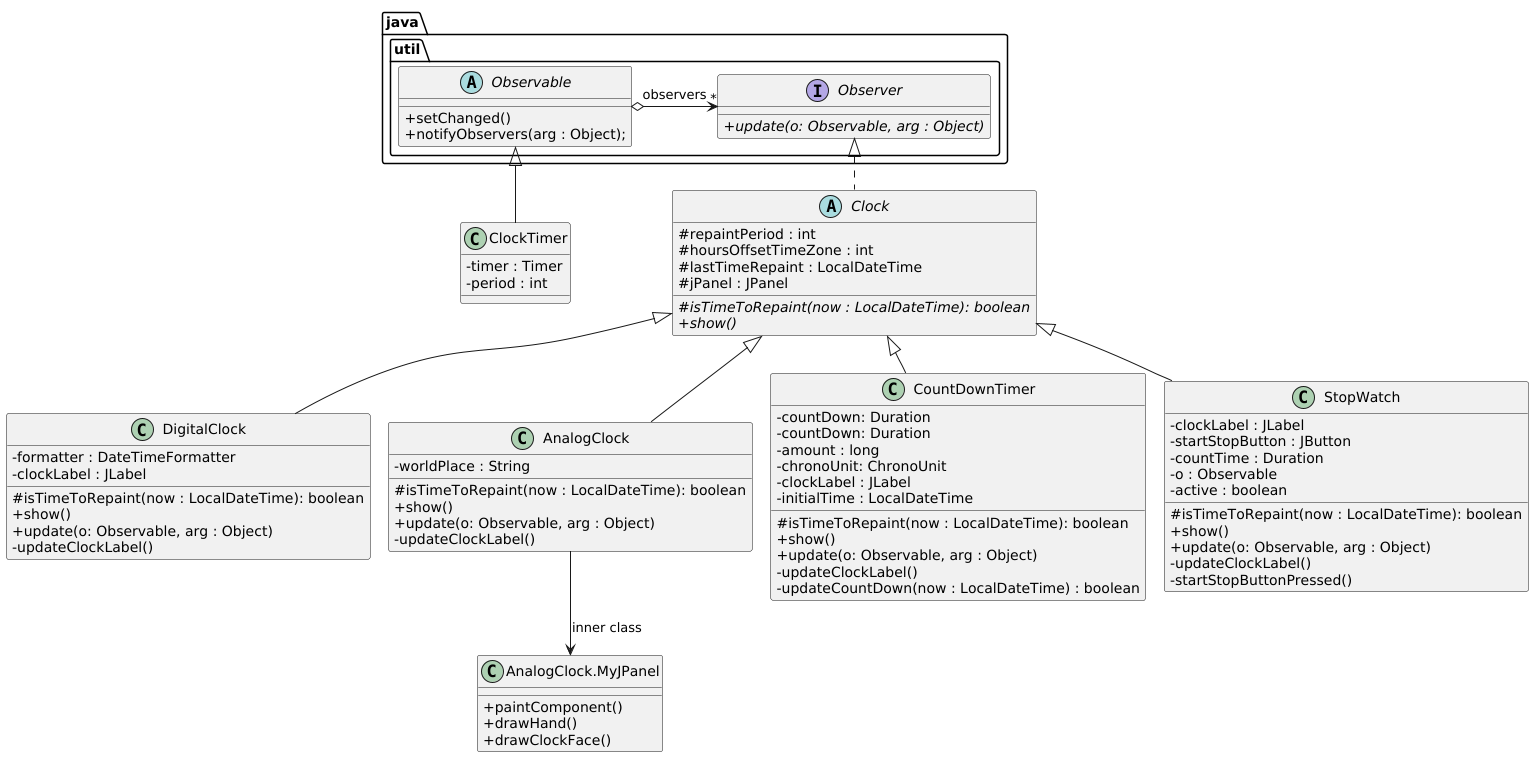
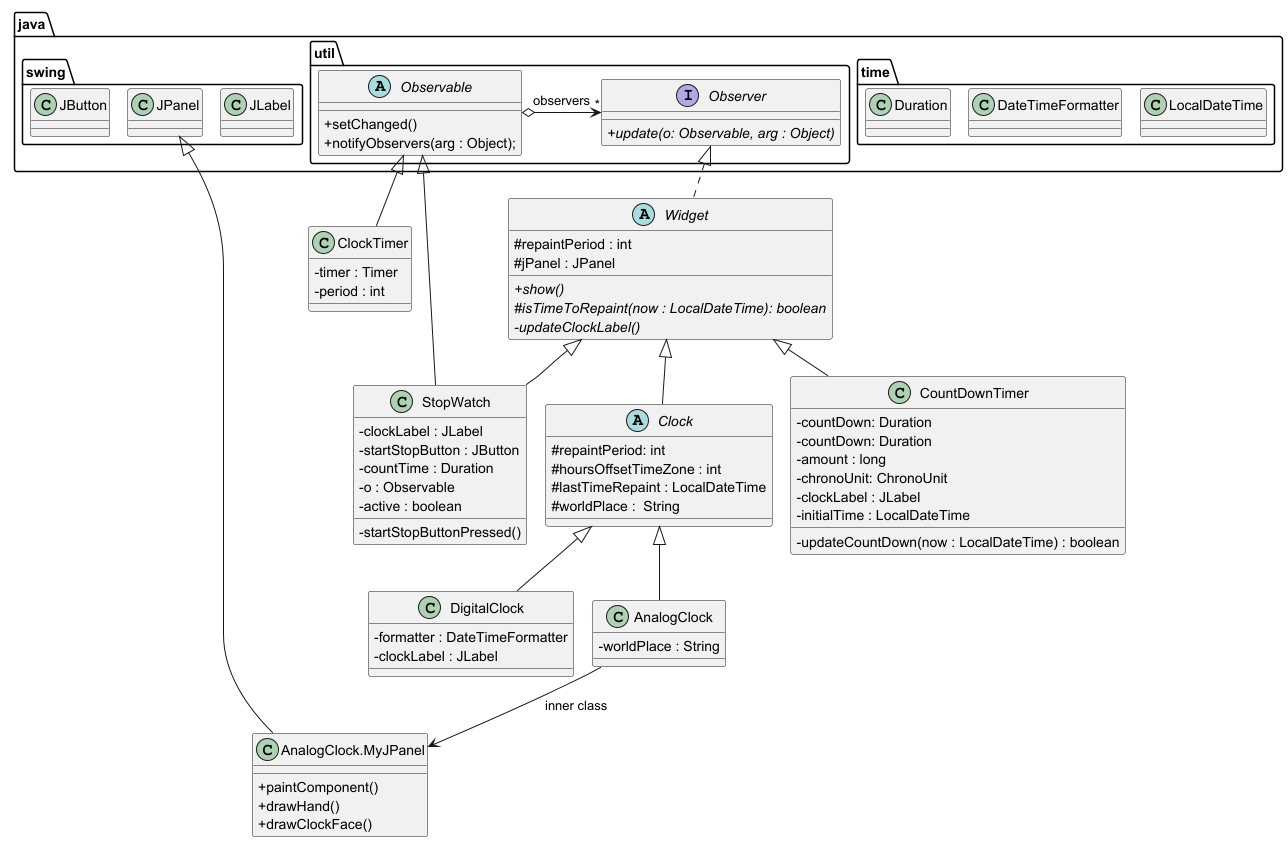
lol

Changed region(s): [[0.0, 0.0, 1.0, 1.0], [0.6211, 0.2734, 0.6522, 0.3038], [0.1863, 0.5165, 0.2174, 0.5469]]

diff --git a/Nueva carpeta/css/forum.css b/Nueva carpeta/css/forum.css
@@ -1,0 +1,44 @@
+body {
+    background-color: white;
+    font-family: 'Courier New', Courier, monospace;
+}
+
+header {
+    background-color: darkgray;
+    text-align: center;
+    position: sticky;
+    top: 0px;
+    z-index: 1;
+}
+
+section {
+    background-color: lightgray;
+    text-align: left;
+}
+
+img {
+    opacity: 0.75;
+    z-index: -1;
+    animation-name: logo;
+    animation-iteration-count: 2;
+    animation-duration: 0.75s;
+}
+
+@keyframes logo {
+    100%{transform: rotate(360deg);}
+}
+
+#layout {
+    display: flex;
+    flex-direction: column;
+}
+
+@media screen and (min-width: 1400px) {
+    #layout {
+        flex-direction: row;
+    }
+
+    section {
+        max-width: 40%;
+    }
+}

diff --git a/Nueva carpeta/js/funcions.js b/Nueva carpeta/js/funcions.js
@@ -1,0 +1,5 @@
+async function ampliaMissatge(id) {
+    var answer = await fetch("/controladors/c_missatge.php?IDElement="+id)
+    var answerTxt = await answer.text();
+    document.getElementById(id).innerHTML = answerTxt;
+}

diff --git a/Nueva carpeta/forum.php b/Nueva carpeta/forum.php
@@ -1,0 +1,28 @@
+<!DOCTYPE html>
+<html>
+    <head>
+    <meta charset="utf-8"/>
+    <title>Desenvolupament Web</title>
+    <link rel="stylesheet" type="text/css" href="./css/forum.css">
+    <script src="./js/funcions.js"></script>
+    </head>
+    <body>
+        <header>
+            <img src="./img/css.png" id="css"/>
+            <img src="./img/html.png" id="html"/>
+            <img src="./img/js.png" id="js"/>
+            <h1 class="titolGran">Fòrum de <em>Desenvolupament Web</em></h1>
+        </header><br/>
+        <div id="layout">
+            <?php include_once __DIR__ . "/controladors/c_missatgesLlistat.php"; ?>
+            <section>
+                <h2 class="titolPetit">Escriu la teva resposta:</h2> <hr/>
+                    <form method="post" action="./resposta.php">
+                        <input type="text" id="inputNom" name="nom" size="15" required /><br/>
+                        <textarea id="inputResposta" name="resposta" rows="10" cols="200" required></textarea><br/>
+                    <input type="submit" id="inputEnviar" value="ENVIAR" />
+                </form>
+            </section>
+        </div>
+    </body>
+</html>

diff --git a/clocks_java_students-main/observer_clock/DigitalClock.java b/clocks_java_students-main/observer_clock/DigitalClock.java
@@ -16,6 +16,7 @@ public class DigitalClock extends Clock {
   private JLabel clockLabel;
 
   public DigitalClock(int hoursOffsetTimeZoneOffset, String worldPlace) {
+    this.worldPlace = worldPlace;
     this.hoursOffsetTimeZone = hoursOffsetTimeZoneOffset;
     this.repaintPeriod = 100;
 
@@ -29,7 +30,7 @@ public class DigitalClock extends Clock {
     panel.add(clockLabel);
     JLabel placeLabel = new JLabel();
     placeLabel.setFont(new Font(Font.DIALOG, Font.PLAIN, 16));
-    placeLabel.setText(worldPlace);
+    placeLabel.setText(this.worldPlace);
     placeLabel.setAlignmentX(Component.CENTER_ALIGNMENT);
     panel.add(placeLabel);
 

diff --git a/clocks_java_students-main/observer_clock/ClockTimer.java b/clocks_java_students-main/observer_clock/ClockTimer.java
@@ -9,10 +9,20 @@ import java.util.TimerTask;
 public class ClockTimer extends Observable {
   private Timer timer;
   private int period;
+  private static ClockTimer uniqueClock = null;
 
-  public ClockTimer(int period) {
-    this.period = period;
+  private ClockTimer() {
+    period = 10;
+  }
 
+  public static ClockTimer getUniqueClock() {
+    if (uniqueClock == null) {
+      uniqueClock = new ClockTimer();
+    }
+    return uniqueClock;
+  }
+
+  public void start() {
     TimerTask timerTask = new TimerTask() {
       @Override
       public void run() {

diff --git a/clocks_java_students-main/observer_clock/Main.java b/clocks_java_students-main/observer_clock/Main.java
@@ -6,7 +6,8 @@ import java.util.List;
 
 public class Main {
   public static void main(String[] args) {
-    ClockTimer clockTimer = new ClockTimer(10);
+    ClockTimer clockTimer = ClockTimer.getUniqueClock();
+    clockTimer.start();
     List<Widget> widgets = new ArrayList<>(List.of(
         new AnalogClock(0, "Cerdanyola, Catalonia"),
         new DigitalClock(-9, "Anchorage, Alaska"),

diff --git a/clocks_java_students-main/observer_clock/AnalogClock.java b/clocks_java_students-main/observer_clock/AnalogClock.java
@@ -8,8 +8,6 @@ import java.util.Observable;
 
 // adapted from https://stackoverflow.com/questions/67553152/how-do-i-create-a-clock-using-timer
 public class AnalogClock extends Clock {
-  private String worldPlace;
-
 
   public AnalogClock(int hoursOffsetTimeZone, String worldPlace) {
     this.worldPlace = worldPlace;

diff --git a/Nueva carpeta/models/connectaBD.php b/Nueva carpeta/models/connectaBD.php
@@ -1,0 +1,8 @@
+<?php
+ function connectaBD(){
+ $servidor = "localhost"; $port = "5432"; $DBnom = "myDB"; $usuari = "david"; $clau = "password";
+ $connexio = pg_connect("host=$servidor port=$port dbname=$DBnom user=$usuari
+ password=$clau") or die("Error connexio DB");
+ return($connexio);
+ }
+?>

diff --git a/clocks_java_students-main/observer_clock/Clock.java b/clocks_java_students-main/observer_clock/Clock.java
@@ -8,5 +8,6 @@ import java.util.Observer;
 public abstract class Clock extends Widget {
   // this is just to have in Main.java a list with digital and analog clocks
   protected int hoursOffsetTimeZone;
+  protected String worldPlace;
   protected LocalDateTime lastTimeRepaint;
 }

diff --git a/Nueva carpeta/controladors/c_missatgesLlistat.php b/Nueva carpeta/controladors/c_missatgesLlistat.php
@@ -1,0 +1,3 @@
+<?php
+	include __DIR__."../models/connectaBD.php";
+?>
